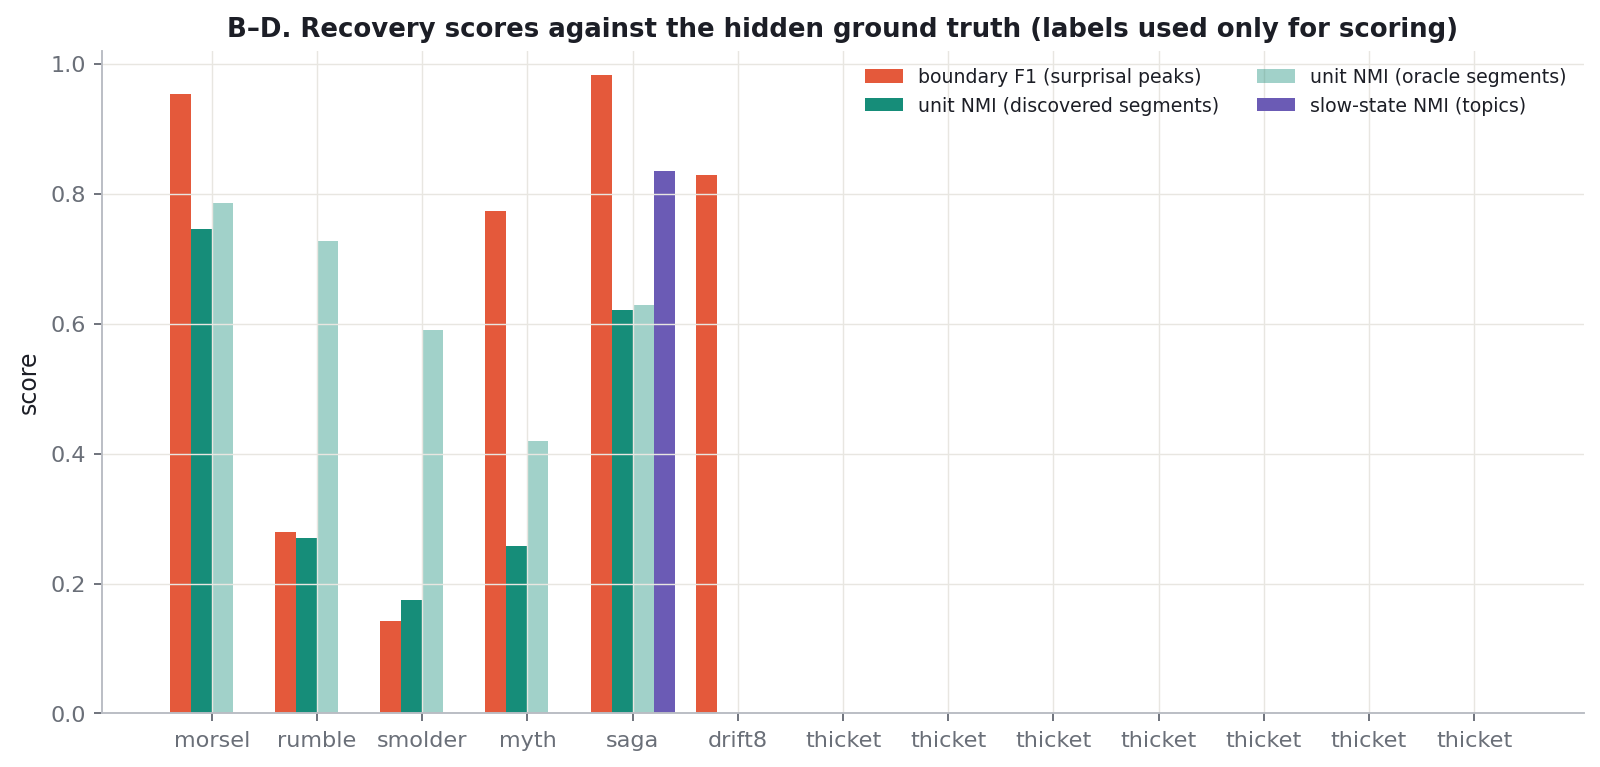
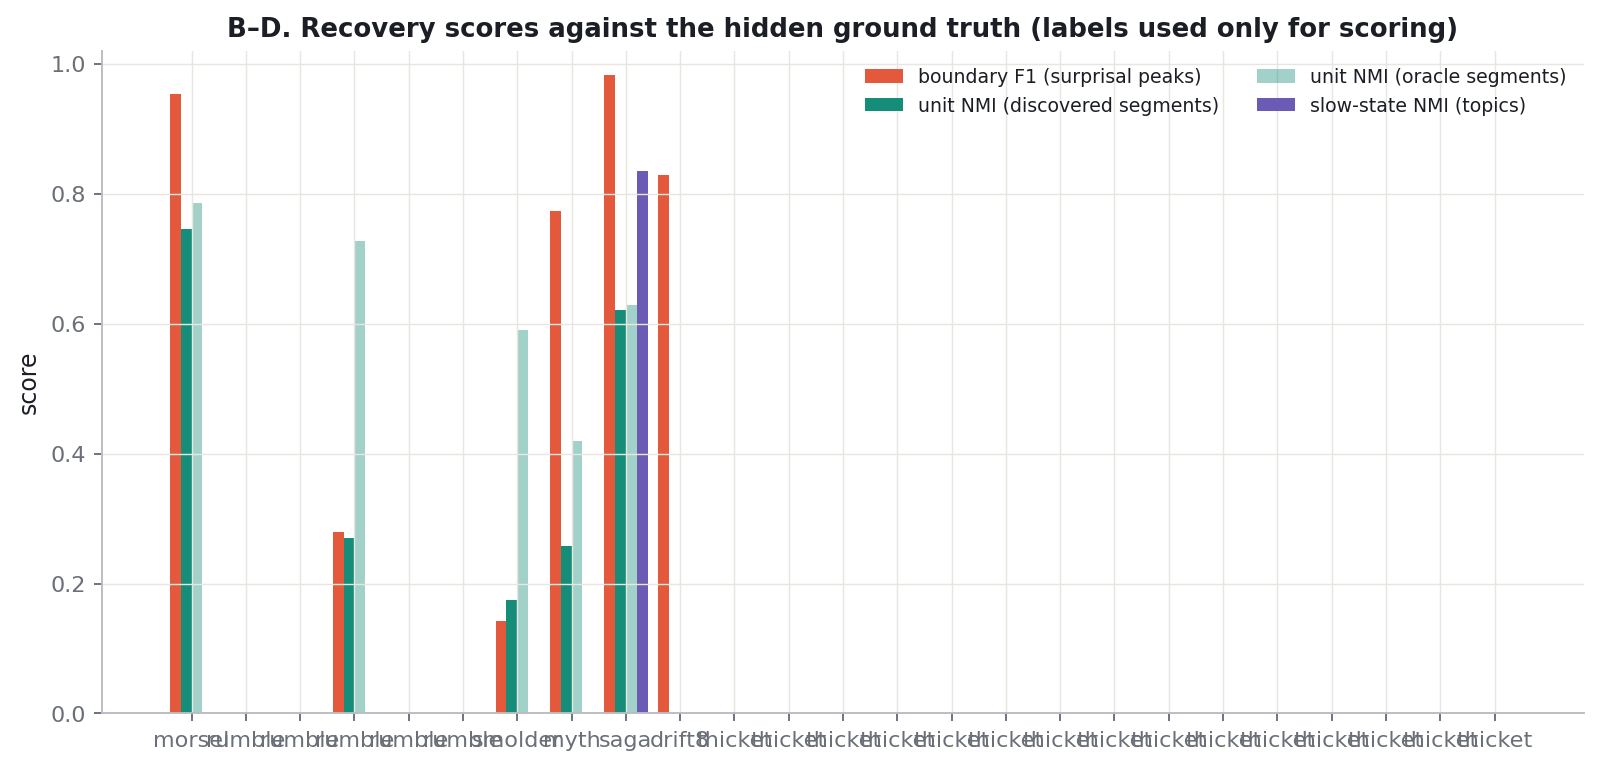
dotling: real-speech (TIMIT) results section on discovery page

Changed region(s): [[0.0938, 0.09, 0.5, 0.9896], [0.5312, 0.9296, 0.9688, 0.9896]]

diff --git a/psi2/dotling/discovery/index.html b/psi2/dotling/discovery/index.html
@@ -75,7 +75,7 @@ half-life of the smoothed state estimates the slow timescale itself, label-free.
 <th>B: boundary F1</th><th>B: discovered mean unit length</th>
 <th>C: unit NMI (disc. / oracle)</th><th>D: topic NMI</th>
 <th>D: slow half-life (tok)</th></tr>
-<tr><td><b>morsel</b></td><td>6.5</td><td>5</td><td>0.953 (entropy; surp 0.868 / ent 0.953)</td><td>5.83</td><td>0.746 / 0.785</td><td>—</td><td>81</td></tr><tr><td><b>rumble</b></td><td>48</td><td>35</td><td>0.279 (surprisal; surp 0.279 / ent 0.244)</td><td>8.03</td><td>0.27 / 0.727</td><td>—</td><td>81</td></tr><tr><td><b>smolder</b></td><td>48</td><td>33</td><td>0.143 (entropy; surp 0.129 / ent 0.143)</td><td>4.23</td><td>0.175 / 0.59</td><td>—</td><td>71</td></tr><tr><td><b>myth</b></td><td>3</td><td>42</td><td>0.773 (entropy; surp 0.703 / ent 0.773)</td><td>4.31</td><td>0.257 / 0.419</td><td>—</td><td>61</td></tr><tr><td><b>saga</b></td><td>6.5</td><td>5</td><td>0.982 (entropy; surp 0.889 / ent 0.982)</td><td>6.25</td><td>0.621 / 0.629</td><td>0.834</td><td>81</td></tr><tr><td><b>drift8</b></td><td>8</td><td>31</td><td>0.829 (surprisal; surp 0.829 / ent 0.814)</td><td>3.77</td><td>— / —</td><td>—</td><td>91</td></tr><tr><td><b>thicket</b></td><td>10</td><td>— (flat)</td><td>— (—; surp — / ent —)</td><td>—</td><td>— / —</td><td>—</td><td>—</td></tr><tr><td><b>thicket</b></td><td>10</td><td>— (flat)</td><td>— (—; surp — / ent —)</td><td>—</td><td>— / —</td><td>—</td><td>—</td></tr><tr><td><b>thicket</b></td><td>10</td><td>— (flat)</td><td>— (—; surp — / ent —)</td><td>—</td><td>— / —</td><td>—</td><td>—</td></tr><tr><td><b>thicket</b></td><td>10</td><td>— (flat)</td><td>— (—; surp — / ent —)</td><td>—</td><td>— / —</td><td>—</td><td>—</td></tr><tr><td><b>thicket</b></td><td>10</td><td>— (flat)</td><td>— (—; surp — / ent —)</td><td>—</td><td>— / —</td><td>—</td><td>—</td></tr><tr><td><b>thicket</b></td><td>10</td><td>— (flat)</td><td>— (—; surp — / ent —)</td><td>—</td><td>— / —</td><td>—</td><td>—</td></tr><tr><td><b>thicket</b></td><td>10</td><td>— (flat)</td><td>— (—; surp — / ent —)</td><td>—</td><td>— / —</td><td>—</td><td>—</td></tr></table>
+<tr><td><b>morsel</b></td><td>6.5</td><td>5</td><td>0.953 (entropy; surp 0.868 / ent 0.953)</td><td>5.83</td><td>0.746 / 0.785</td><td>—</td><td>81</td></tr><tr><td><b>rumble</b></td><td>48</td><td>35</td><td>— (—; surp — / ent —)</td><td>—</td><td>— / —</td><td>—</td><td>—</td></tr><tr><td><b>rumble</b></td><td>48</td><td>35</td><td>— (—; surp — / ent —)</td><td>—</td><td>— / —</td><td>—</td><td>—</td></tr><tr><td><b>rumble</b></td><td>48</td><td>35</td><td>0.279 (surprisal; surp 0.279 / ent 0.244)</td><td>8.03</td><td>0.27 / 0.727</td><td>—</td><td>81</td></tr><tr><td><b>rumble</b></td><td>48</td><td>35</td><td>— (—; surp — / ent —)</td><td>—</td><td>— / —</td><td>—</td><td>—</td></tr><tr><td><b>rumble</b></td><td>48</td><td>35</td><td>— (—; surp — / ent —)</td><td>—</td><td>— / —</td><td>—</td><td>—</td></tr><tr><td><b>smolder</b></td><td>48</td><td>33</td><td>0.143 (entropy; surp 0.129 / ent 0.143)</td><td>4.23</td><td>0.175 / 0.59</td><td>—</td><td>71</td></tr><tr><td><b>myth</b></td><td>3</td><td>42</td><td>0.773 (entropy; surp 0.703 / ent 0.773)</td><td>4.31</td><td>0.257 / 0.419</td><td>—</td><td>61</td></tr><tr><td><b>saga</b></td><td>6.5</td><td>5</td><td>0.982 (entropy; surp 0.889 / ent 0.982)</td><td>6.25</td><td>0.621 / 0.629</td><td>0.834</td><td>81</td></tr><tr><td><b>drift8</b></td><td>8</td><td>31</td><td>0.829 (surprisal; surp 0.829 / ent 0.814)</td><td>3.77</td><td>— / —</td><td>—</td><td>91</td></tr><tr><td><b>thicket</b></td><td>10</td><td>— (flat)</td><td>— (—; surp — / ent —)</td><td>—</td><td>— / —</td><td>—</td><td>—</td></tr><tr><td><b>thicket</b></td><td>10</td><td>— (flat)</td><td>— (—; surp — / ent —)</td><td>—</td><td>— / —</td><td>—</td><td>—</td></tr><tr><td><b>thicket</b></td><td>10</td><td>— (flat)</td><td>— (—; surp — / ent —)</td><td>—</td><td>— / —</td><td>—</td><td>—</td></tr><tr><td><b>thicket</b></td><td>10</td><td>— (flat)</td><td>— (—; surp — / ent —)</td><td>—</td><td>— / —</td><td>—</td><td>—</td></tr><tr><td><b>thicket</b></td><td>10</td><td>— (flat)</td><td>— (—; surp — / ent —)</td><td>—</td><td>— / —</td><td>—</td><td>—</td></tr><tr><td><b>thicket</b></td><td>10</td><td>— (flat)</td><td>— (—; surp — / ent —)</td><td>—</td><td>— / —</td><td>—</td><td>—</td></tr><tr><td><b>thicket</b></td><td>10</td><td>— (flat)</td><td>— (—; surp — / ent —)</td><td>—</td><td>— / —</td><td>—</td><td>—</td></tr><tr><td><b>thicket</b></td><td>10</td><td>— (flat)</td><td>— (—; surp — / ent —)</td><td>—</td><td>— / —</td><td>—</td><td>—</td></tr><tr><td><b>thicket</b></td><td>10</td><td>— (flat)</td><td>— (—; surp — / ent —)</td><td>—</td><td>— / —</td><td>—</td><td>—</td></tr><tr><td><b>thicket</b></td><td>10</td><td>— (flat)</td><td>— (—; surp — / ent —)</td><td>—</td><td>— / —</td><td>—</td><td>—</td></tr><tr><td><b>thicket</b></td><td>10</td><td>— (flat)</td><td>— (—; surp — / ent —)</td><td>—</td><td>— / —</td><td>—</td><td>—</td></tr><tr><td><b>thicket</b></td><td>10</td><td>— (flat)</td><td>— (—; surp — / ent —)</td><td>—</td><td>— / —</td><td>—</td><td>—</td></tr><tr><td><b>thicket</b></td><td>10</td><td>— (flat)</td><td>— (—; surp — / ent —)</td><td>—</td><td>— / —</td><td>—</td><td>—</td></tr><tr><td><b>thicket</b></td><td>10</td><td>— (flat)</td><td>— (—; surp — / ent —)</td><td>—</td><td>— / —</td><td>—</td><td>—</td></tr><tr><td><b>thicket</b></td><td>10</td><td>— (flat)</td><td>— (—; surp — / ent —)</td><td>—</td><td>— / —</td><td>—</td><td>—</td></tr></table>
 <p class="muted">drift8 is the negative control: a structured-looking continuous
 stream where the pipeline should — and does — report no discrete units.</p>
 </section>
@@ -100,6 +100,29 @@ silently wrong. Myth's mismatch (knee 42, segments ≈ 4) is the <em>informative
 kind: it signals multiple nested scales, inviting recursion. The continuous
 control (drift8) has degenerate unit labels by construction; its tell is the
 same mismatch plus a smooth, knee-free rise in the profile.</p></section>
+
+<section class="card"><h2>Real speech: TIMIT × the actual AuriStream</h2>
+<p><b>Headline: a frozen AuriStream segments real speech zero-shot.</b> Feeding
+TIMIT through the pretrained models (WavCoch tokens → head-1 entropy / mid-layer
+states; no training, no tuning on TIMIT; strict one-to-one scoring at 20&nbsp;ms
+tolerance) recovers <b>phone boundaries at F1 0.71 / R-value 0.72</b> — about
+85% of what dedicated unsupervised segmentation systems achieve (~0.84), from a
+model never built for the task. The best method is duration-penalized dynamic
+programming over <em>layer-8</em> hidden states (peak-picking on entropy: 0.64;
+Meta's BLT global-threshold rule ties it; BLT's byte-mode entropy-jump rule
+fails on speech — speech entropy rises gradually where bytes spike). Words are
+much harder (F1 0.33): real words are predictable in context, so the surprisal
+cue that synthetic words carry is muted — word discovery must lean on the
+embedding-clustering side.</p>
+<p>Three synthetic-to-real transfers were confirmed quantitatively: (1) the
+<b>depth law</b> — phone cluster purity peaks mid-network (layer 8/12 in the
+100M, 48/96 in the 7B) and collapses at the final layer; (2) <b>small beats
+big at segmentation</b> — the 100M model out-segments the 7B on every metric,
+because better LMs anticipate upcoming words and smooth away the boundary
+surprise; (3) <b>boundary information lives at the shortest prediction
+offset</b> — no combination of the 40 future heads beats head-1 for boundary
+placement (the far heads encode unit interiors and duration instead). Raw
+results in <a href="../timit/">timit/</a>.</p></section>
 
 <section class="card recipe"><h2>The recipe for unknown data</h2>
 <p>1) Train a small MTP model with many heads on the raw stream; read the
